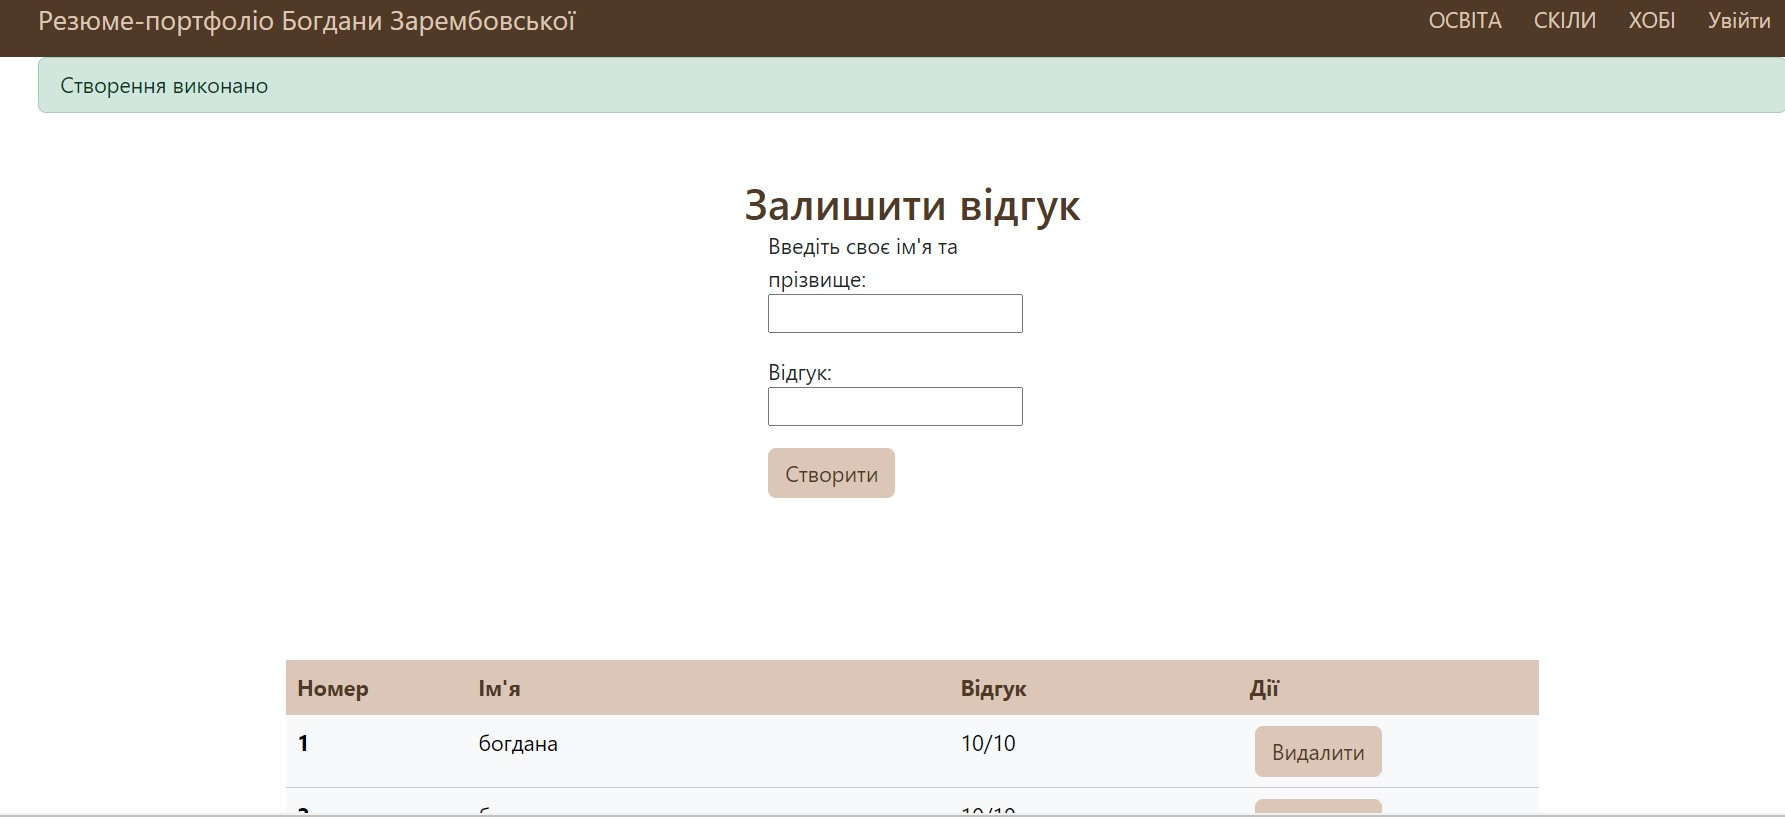
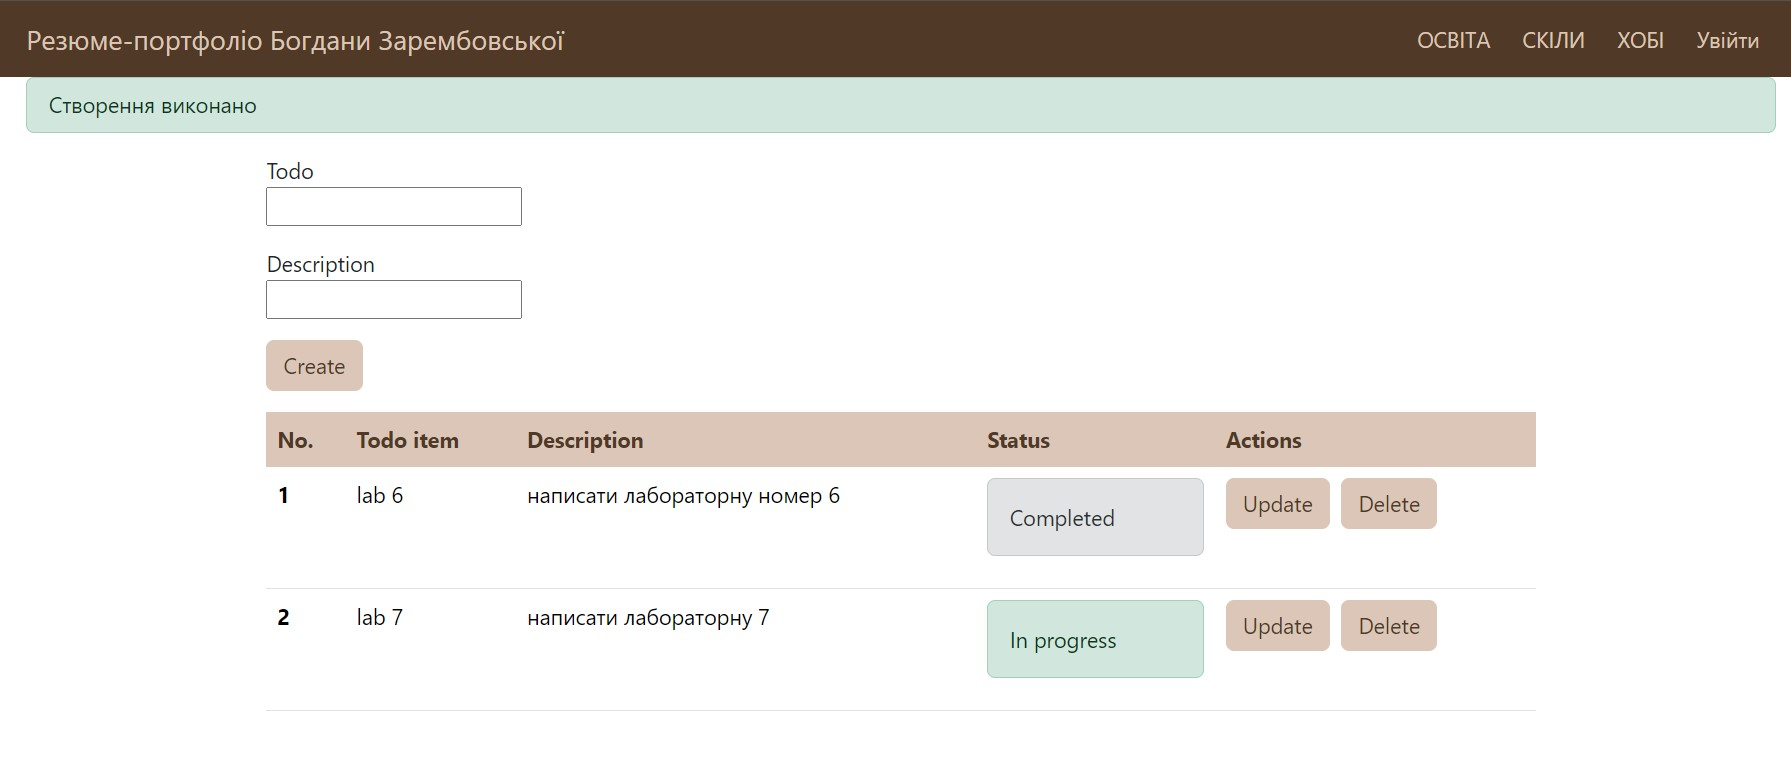
lab6
lab6

diff --git a/lab3/app/templates/todo.html b/lab3/app/templates/todo.html
@@ -1,0 +1,64 @@
+{% extends 'base.html' %}
+{% block title %} База даних {% endblock %}
+
+{% block body %}
+<section class="page-section" id="todo_table">
+    <div class="divider-custom">
+        <div class="divider-custom-line"></div>
+        <div class="divider-custom-icon"><i class="fas fa-star"></i></div>
+        <div class="divider-custom-line"></div>
+    </div>
+    <div class="row justify-content-center">
+        <div class="container col-md-8 col-lg-8">
+            <form id="createTodo" action="/create_todo" method="POST">
+                {% from "_render_field.html" import render_field %}
+                {{ todo_form.csrf_token }}
+                <div class="form-floating mb-3 mt-3">
+                    Todo</br>{{ render_field(todo_form.new_task) }}
+                </div>
+                <div class="form-floating mb-3">
+                    Description </br>{{ render_field(todo_form.description) }}
+                </div>
+                {{todo_form.submit(class_='btn btn-beige text-brown btn-xl')}}
+            </form>
+        </div>
+    </div>
+</section>
+<section>
+    <div class="row justify-content-center mt-3">   
+        <div class="container col-md-8 col-lg-8">
+            <table class="table">
+                <thead class="table-primary">
+                    <tr class = "todoTable">
+                        <th class = "todoTable">No.</th>
+                        <th class = "todoTable">Todo item</th>
+                        <th class = "todoTable">Description</th>
+                        <th class = "todoTable">Status</th>
+                        <th class = "todoTable">Actions</th>
+                    </tr>
+                </thead>
+                <tbody>
+                    {% for todo in todo_list %}
+                    <tr>
+                        <th scope="row">{{ todo.id }}</th>
+                        <td class = "todoTable">{{ todo.title }}</td>
+                        <td class = "todoTable">{{ todo.description }}</td>
+                        <td class = "todoTable">
+                            {% if todo.complete == True %}
+                            <div class="alert alert-secondary" roles="alert">Completed</div>
+                            {% else %}
+                            <div class="alert alert-success" roles="alert">In progress</div>
+                            {% endif %}
+                        </td>
+                        <td>
+                            <a class="btn btn-beige text-brown" href="/update_todo/{{ todo.id }}">Update</a>
+                            <a class="btn btn-beige text-brown ms-1" href="/delete_todo/{{ todo.id }}">Delete</a>
+                        </td>
+                    </tr>
+                    {% endfor %}
+                </tbody>
+            </table>
+        </div>
+    </div>
+</section>
+{% endblock %}

diff --git a/lab3/app/templates/base.html b/lab3/app/templates/base.html
@@ -1,7 +1,8 @@
 {% set menu = {
     "Освіта": url_for("education"), 
     "Скіли": url_for("skills"),
-    "Хобі": url_for("hobbies")
+    "Хобі": url_for("hobbies"),
+    "Todo": url_for("todo")
 } %}
 
 <!DOCTYPE html>

diff --git a/lab3/app/views.py b/lab3/app/views.py
@@ -2,8 +2,8 @@ from flask import Flask, flash, render_template, request, redirect, url_for, jso
 import os
 from datetime import datetime
 from app import app
-from app.forms import LoginForm, ChangePasswordForm, AddReview
-from app.database import db, Review
+from app.forms import LoginForm, ChangePasswordForm, CreateTodo
+from app.database import db, Todo
 import random
 
 my_skills = ["Data Science/Machine Learning", "Pandas/NumPy/SciPy/Matplotlib", "MySQL", "HTML & CSS", "Jupyter Notebook", "Python", "OpenCV", "Deep Learning"]
@@ -178,51 +178,52 @@ def change_password():
     flash("Пароль не введено", category=("danger"))
     return redirect(url_for('info'))
 
-@app.route("/review")
-def review():
-    review_form = AddReview()
-    review_list = db.session.query(Review).all()
+@app.route("/todo")
+def todo():
+    todo_form = CreateTodo()
+    todo_list = db.session.query(Todo).all()
 
-    return render_template('review.html', review_form=review_form, review_list=review_list)
+    return render_template('todo.html', todo_form=todo_form, todo_list=todo_list)
 
-@app.route("/add_review", methods=['POST'])
-def add_review():
-    review_form = AddReview()
+@app.route("/create_todo", methods=['POST'])
+def create_todo():
+    todo_form = CreateTodo()
 
-    if review_form.validate_on_submit():
-        name_field = review_form.name_field.data
-        description = review_form.description.data
-        new_review = Review(title=name_field, description=description, complete=False)
-        db.session.add(new_review)
+    if todo_form.validate_on_submit():
+        new_task = todo_form.new_task.data
+        description = todo_form.description.data
+        new_todo = Todo(title=new_task, description=description, complete=False)
+        db.session.add(new_todo)
         db.session.commit()
         flash("Створення виконано", category=("success"))
-        return redirect(url_for("review"))
+        return redirect(url_for("todo"))
     
     flash("Помилка при створенні", category=("danger"))
-    return redirect(url_for("review"))
+    return redirect(url_for("todo"))
 
-@app.route("/update_review/<int:review_id>")
-def update_review(review_id=None):
-    review = Review.query.get_or_404(review_id)
+@app.route("/read_todo/<int:todo_id>")
+def read_todo(todo_id=None):
+    todo = Todo.query.get_or_404(todo_id)
+    return redirect(url_for("todo"))
 
-    review.complete = not review.complete
+@app.route("/update_todo/<int:todo_id>")
+def update_todo(todo_id=None):
+    todo = Todo.query.get_or_404(todo_id)
+
+    todo.complete = not todo.complete
     db.session.commit()
     flash("Оновлення виконано", category=("success"))
-    return redirect(url_for("review"))
+    return redirect(url_for("todo"))
 
-@app.route("/delete_review/<int:review_id>")
-def delete_review(review_id=None):
-    review = Review.query.get_or_404(review_id)
+@app.route("/delete_todo/<int:todo_id>")
+def delete_todo(todo_id=None):
+    todo = Todo.query.get_or_404(todo_id)
 
-    db.session.delete(review)
+    db.session.delete(todo)
     db.session.commit()
     flash("Видалення виконано", category=("success"))
-    return redirect(url_for("review"))
+    return redirect(url_for("todo"))
 
-@app.route("/read_review/<int:review_id>")
-def read_review(review_id=None):
-    review = Review.query.get_or_404(review_id)
-    return redirect(url_for("review"))
 
 @app.route("/main")
 def main():

diff --git a/lab3/app/forms.py b/lab3/app/forms.py
@@ -22,9 +22,9 @@ class ChangePasswordForm(FlaskForm):
         DataRequired("Це поле обов'язкове"),
         EqualTo('new_password', message='Паролі повинні співпадати')
     ])
-    submit = SubmitField("Змінити")
+    submit = SubmitField("Change")
 
-class AddReview(FlaskForm):
-    name_field = StringField("", validators=[DataRequired("Це поле обовʼязкове"), Length(min=1, max=100)])
-    description = StringField("", validators=[DataRequired("Це поле обовʼязкове"), Length(min=1, max=200)])
-    submit = SubmitField("Створити")
+class CreateTodo(FlaskForm):
+    new_task = StringField(" ", validators=[DataRequired("You should writesomething here"), Length(min=1, max=100)])
+    description = StringField(" ", validators=[DataRequired("You should writesomething here too"), Length(min=1, max=200)])
+    submit = SubmitField("Create")

diff --git a/lab3/app/database.py b/lab3/app/database.py
@@ -7,9 +7,7 @@ app.config['SQLALCHEMY_DATABASE_URI'] = os.getenv("DATABASE_URL", "sqlite:///fla
 
 db = SQLAlchemy(app)
 
-class Review(db.Model):
-    __tablename__ = 'reviews'
-
+class Todo(db.Model):
     id = db.Column(db.Integer, primary_key=True)
     title = db.Column(db.String(100))
     description = db.Column(db.String(200))
